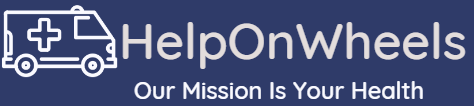
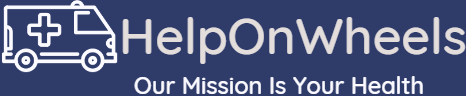
Add files via upload

Changed region(s): [[0.0, 0.0, 1.0, 0.75], [0.2704, 0.75, 0.9313, 1.0]]

diff --git a/contact.html b/contact.html
@@ -2,11 +2,11 @@
 <html lang="en" dir="ltr">
   <head>
     <meta charset="utf-8">
-    <title></title>
-    <link rel="stylesheet" href="/css/style.css">
+    <title>Contact Us 24x7</title>
+    <link rel="icon" type="text/css" href="/css/myfavicon.ico">
   </head>
   <body style="background-color:#2c3c6c">
-    <a href="index.html"><img src="am3.png" alt="Smiley face" width="275" height="70" style="float:left"></a>
+    <a href="index.html"><img src="am3.png" alt="Smiley face" width="275" height="60" style="float:left"></a>
     <center><h7><p style="font-family: tahoma;"><a href="about.html" style="color:white"><u>About</u></a>&emsp;<a href="services.html" style="color:white"><u>Services</u></a>&emsp;<u><a href="contact.html" style="color:white">Contact</a></u></p></h7></center>
   </body>
 </html>

diff --git a/index.html b/index.html
@@ -3,8 +3,9 @@
 <head>
   <meta charset="utf-8">
   <title>HelpOnWheels</title>
+  <link rel="icon" type="text/css" href="/css/myfavicon.ico">
 </head>
 <body>
-    <img src="am2.png" alt="Smiley face" width="275" height="60" style="float:left">
+    <img src="am2.png" alt="Smiley face" width="275" height="57" style="float:left">
     <center><h7><p style="font-family: Tahoma;"><a href="about.html" style="color:black"><u>About</u></a>&emsp;<a href="services.html" style="color:black"><u>Services</u></a>&emsp;<u><a href="contact.html" style="color:black">Contact</a></u></p></h7></center>
   </body>

diff --git a/services.html b/services.html
@@ -2,8 +2,8 @@
 <html lang="en" dir="ltr">
   <head>
     <meta charset="utf-8">
-    <title></title>
-    <link rel="stylesheet" href="/css/style.css">
+    <title>Our Services</title>
+    <link rel="icon" type="text/css" href="/css/myfavicon.ico">
   </head>
   <body style="background-color:#423e3a">
     <a href="index.html"><img src="am5.png" alt="Smiley face" width="275" height="60" style="float:left"></a>

diff --git a/about.html b/about.html
@@ -3,6 +3,7 @@
   <head>
     <meta charset="utf-8">
     <title>About Us</title>
+    <link rel="icon" type="text/css" href="/css/myfavicon.ico">
     </head>
 <body style="background-color: #d3bbdb;">
     <a href="index.html"><img src="am4.png" alt="Smiley face" width="275" height="60" style="float:left"></a>
